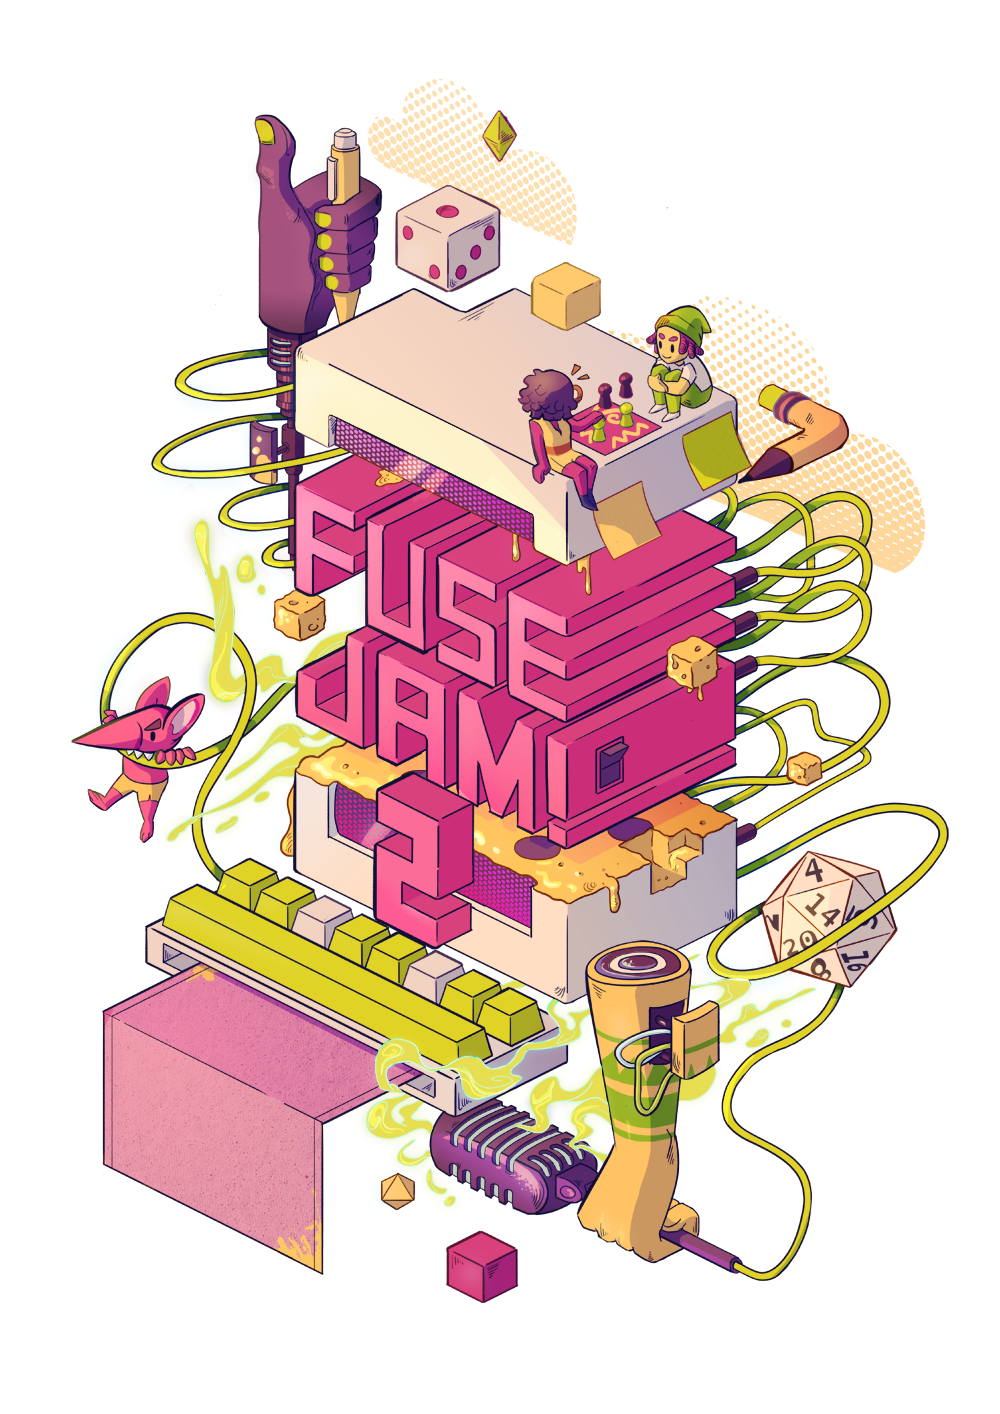
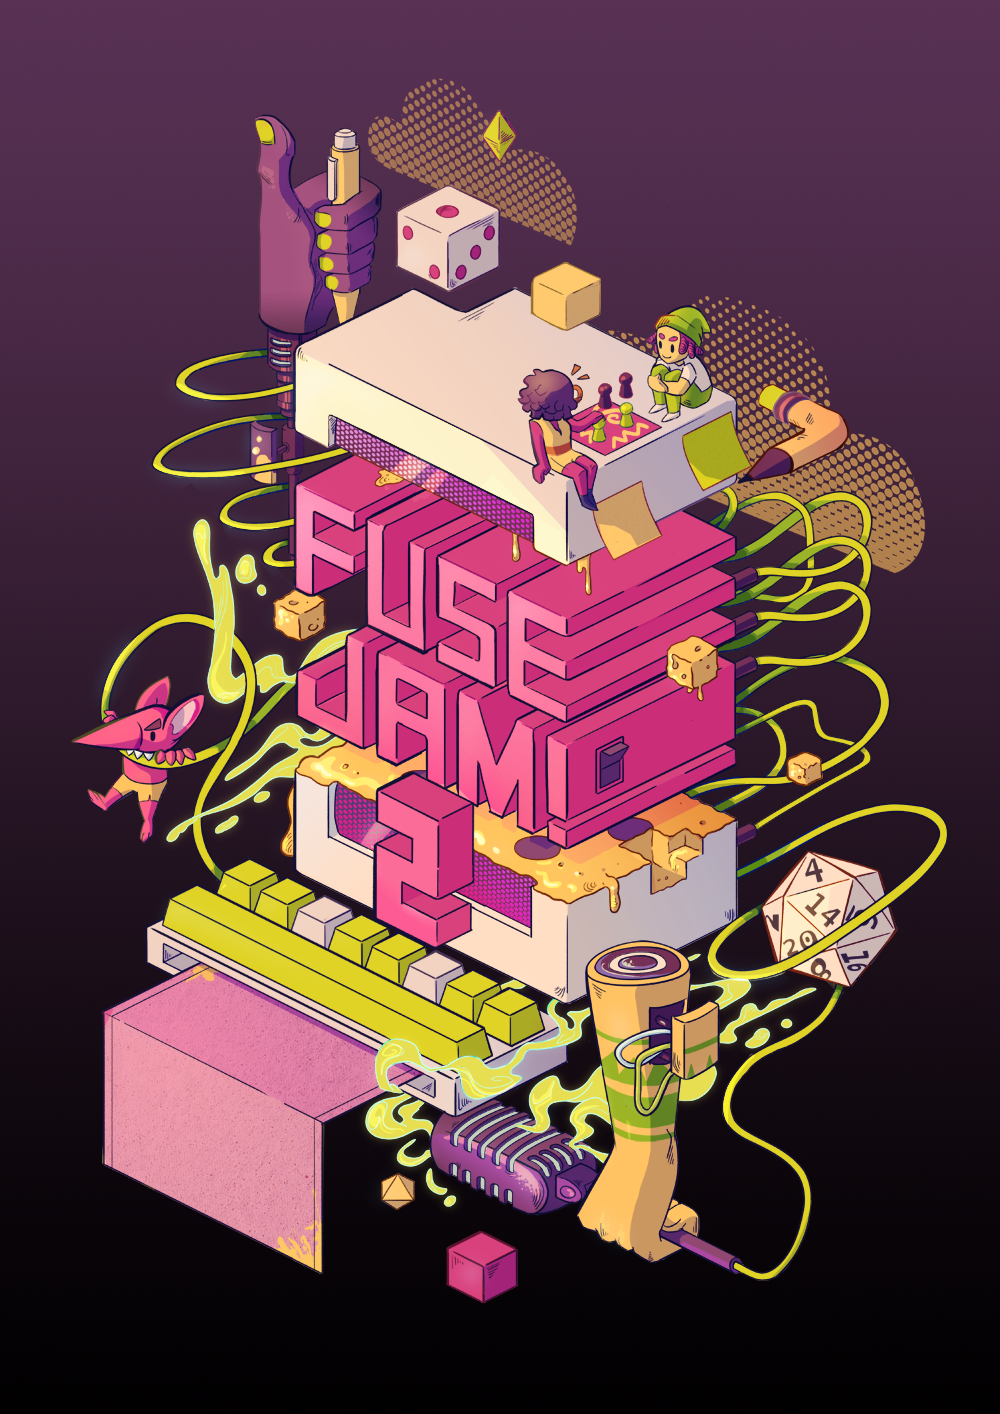
update backgrounds

diff --git a/fusejam.css b/fusejam.css
@@ -118,15 +118,29 @@ h1, h2, h3, h4 {
 }
 
 .bgrdimage {
-	background-image: url('fuseposter3.png'), linear-gradient(to bottom, #f3f3dd,#d8d5cd);
+	background-image: url('fuseposterzoomed-feathered.png'), linear-gradient(to bottom, #7fb7ea,#7dd5d7);
+	background-size: cover; 
+	background-repeat: no-repeat;
+    background-position: center; 
+}
+
+.bgrdimage-FJ1 {
+	background-image: url('fuseposter1.png'), linear-gradient(to bottom, #f3f3dd,#d8d5cd);
 	background-size: contain; 
 	background-repeat: no-repeat;
     background-position: center; 
 }
 
-.bgrdimage-b {
-	background-image: url('fuseposterzoomed-feathered.png'), linear-gradient(to bottom, #7fb7ea,#7dd5d7);
-	background-size: cover; 
+.bgrdimage-FJ2 {
+	background-image: url('fuseposter2.png'), linear-gradient(to bottom, #f3f3dd,#d8d5cd);
+	background-size: contain; 
+	background-repeat: no-repeat;
+    background-position: center; 
+}
+
+.bgrdimage-FJ3 {
+	background-image: url('fuseposter3.png'), linear-gradient(to bottom, #f3f3dd,#d8d5cd);
+	background-size: contain; 
 	background-repeat: no-repeat;
     background-position: center; 
 }

diff --git a/fusejam01.html b/fusejam01.html
@@ -26,7 +26,7 @@
 	<meta name="twitter:creator" content="@FuseJamBristol">
 	
 </head>
-<body class="bgrdimage-b">
+<body class="bgrdimage-FJ1">
 
 <ul class="boxtext">
   <li><a href="index.html">Home</a></li>

diff --git a/fusejam02.html b/fusejam02.html
@@ -26,7 +26,7 @@
 	<meta name="twitter:creator" content="@FuseJamBristol">
 	
 </head>
-<body class="bgrdimage">
+<body class="bgrdimage-FJ2">
 
 <ul class="boxtext">
   <li><a href="index.html">Home</a></li>

diff --git a/fusejam03.html b/fusejam03.html
@@ -26,7 +26,7 @@
 	<meta name="twitter:creator" content="@FuseJamBristol">
 	
 </head>
-<body class="bgrdimage">
+<body class="bgrdimage-FJ3">
 
 <ul class="boxtext">
   <li><a href="index.html">Home</a></li>
